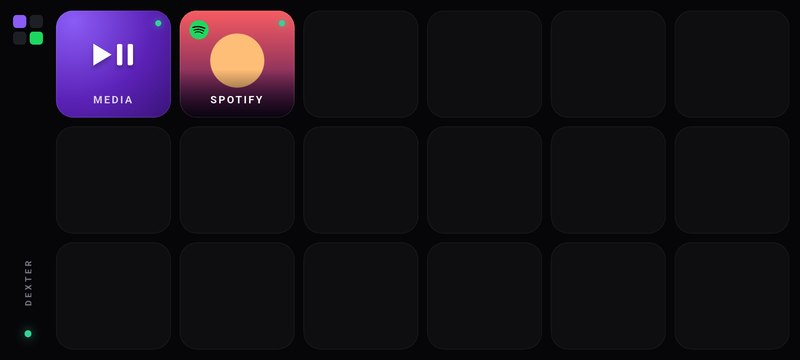
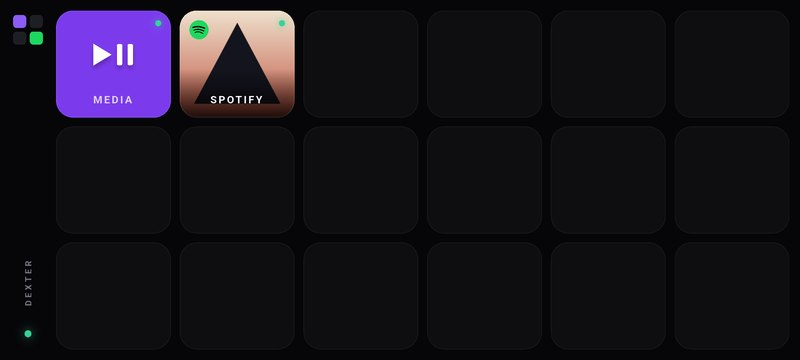
Flat fills instead of dark gradients
Dark gradients (the knob's top-left lighting, the keys' top-to-bottom
shade, the green glow behind Spotify) only have a few shades between
their colours, so screens draw them as visible rings and bands. The
knob is now one flat disc with a hairline edge, keys are flat tiles,
Media/Spotify/Scan/Connect use solid colours, and the Spotify glow is
gone. Only the fade under the album-art label remains, over a photo.

Changed region(s): [[0.0625, 0.0306, 0.375, 0.3361]]

diff --git a/mobile/lib/widgets/volume_knob.dart b/mobile/lib/widgets/volume_knob.dart
@@ -271,7 +271,7 @@ class _RingPainter extends CustomPainter {
   bool shouldRepaint(_RingPainter old) => old.value != value || old.muted != muted || old.color != color;
 }
 
-/// The knob: one smooth dark disc with a small pointer dot that turns with
+/// The knob: one flat dark disc with a small pointer dot that turns with
 /// the value. Nothing else, so it reads as a single clean circle.
 class _KnobPainter extends CustomPainter {
   _KnobPainter({required this.value, required this.muted});
@@ -285,31 +285,15 @@ class _KnobPainter extends CustomPainter {
     final r = size.shortestSide / 2;
     final bodyR = r * 0.7; // held: 0.7 × 1.15, just inside the ring
 
-    canvas.drawCircle(
-      c + Offset(0, r * 0.05),
-      bodyR,
-      Paint()
-        ..color = Colors.black.withValues(alpha: 0.85)
-        ..maskFilter = MaskFilter.blur(BlurStyle.normal, r * 0.07),
-    );
-    canvas.drawCircle(
-      c,
-      bodyR,
-      Paint()
-        ..shader = const RadialGradient(
-          center: Alignment(-0.35, -0.45),
-          radius: 1.15,
-          colors: [Color(0xFF2E2E37), Color(0xFF17171C), Color(0xFF0B0B0E)],
-          stops: [0, 0.55, 1],
-        ).createShader(Rect.fromCircle(center: c, radius: bodyR)),
-    );
+    // One flat disc with a hairline edge. No shading: dark gradients band.
+    canvas.drawCircle(c, bodyR, Paint()..color = Deck.knob);
     canvas.drawCircle(
       c,
       bodyR,
       Paint()
         ..style = PaintingStyle.stroke
         ..strokeWidth = 1
-        ..color = Colors.white.withValues(alpha: 0.07),
+        ..color = Colors.white.withValues(alpha: 0.08),
     );
 
     // Pointer: a small dot near the edge. Amber while muted.

diff --git a/mobile/lib/screens/spotify_screen.dart b/mobile/lib/screens/spotify_screen.dart
@@ -235,7 +235,6 @@ class _SpotifyScreenState extends State<SpotifyScreen> {
       child: Scaffold(
         backgroundColor: Sp.bg,
         body: Stack(children: [
-          const Positioned.fill(child: _Glow()),
           SafeArea(
             child: Row(children: [
               const SideRail(back: true, title: 'SPOTIFY', mark: SpotifyGlyph(size: 26)),
@@ -548,21 +547,6 @@ class _SpotifyScreenState extends State<SpotifyScreen> {
 }
 
 // ── Pieces ────────────────────────────────────────────────────────────────────
-
-/// A faint green light in the corner, so the black has some depth.
-class _Glow extends StatelessWidget {
-  const _Glow();
-  @override
-  Widget build(BuildContext context) => const DecoratedBox(
-        decoration: BoxDecoration(
-          gradient: RadialGradient(
-            center: Alignment(-1.1, -1.2),
-            radius: 1.4,
-            colors: [Color(0x221ED760), Color(0x00000000)],
-          ),
-        ),
-      );
-}
 
 class _Art extends StatelessWidget {
   const _Art({required this.url, required this.size});

diff --git a/mobile/lib/screens/deck_screen.dart b/mobile/lib/screens/deck_screen.dart
@@ -90,14 +90,7 @@ class _DeckScreenState extends State<DeckScreen> with SingleTickerProviderStateM
 
   List<Widget> _keys() => [
         DeckKey(
-          face: const BoxDecoration(
-            gradient: RadialGradient(
-              center: Alignment(-0.7, -0.8),
-              radius: 1.5,
-              colors: [Color(0xFF8B5CF6), Color(0xFF5B21B6), Color(0xFF2A0E5C)],
-              stops: [0, 0.5, 1],
-            ),
-          ),
+          face: const BoxDecoration(color: Deck.violet),
           led: _mediaPlaying ? Deck.ok : null,
           onTap: () => _go(const MediaScreen()),
           child: const KeyFace(icon: _MediaGlyph(), label: 'MEDIA'),
@@ -205,14 +198,7 @@ class _SpotifyKey extends StatelessWidget {
   final SpStatus? status;
   final VoidCallback onTap;
 
-  static const _green = BoxDecoration(
-    gradient: RadialGradient(
-      center: Alignment(-0.7, -0.8),
-      radius: 1.5,
-      colors: [Color(0xFF1ED760), Color(0xFF12803B), Color(0xFF06311A)],
-      stops: [0, 0.5, 1],
-    ),
-  );
+  static const _green = BoxDecoration(color: Color(0xFF1DB954));
 
   @override
   Widget build(BuildContext context) {

diff --git a/mobile/lib/screens/pair_screen.dart b/mobile/lib/screens/pair_screen.dart
@@ -131,14 +131,7 @@ class _PairScreenState extends State<PairScreen> {
         dimension: wide ? 150 : 132,
         child: DeckKey(
           onTap: _busy ? null : _scan,
-          face: const BoxDecoration(
-            gradient: RadialGradient(
-              center: Alignment(-0.7, -0.8),
-              radius: 1.5,
-              colors: [Color(0xFF8B5CF6), Color(0xFF5B21B6), Color(0xFF2A0E5C)],
-              stops: [0, 0.5, 1],
-            ),
-          ),
+          face: const BoxDecoration(color: Deck.violet),
           child: const KeyFace(
             icon: Icon(Icons.qr_code_scanner_rounded, size: 46, color: Deck.text),
             label: 'SCAN QR',
@@ -249,7 +242,7 @@ class _ConnectButton extends StatelessWidget {
         alignment: Alignment.center,
         decoration: BoxDecoration(
           borderRadius: BorderRadius.circular(14),
-          gradient: const LinearGradient(colors: [Deck.accentDeep, Deck.accent]),
+          color: Deck.violet,
           boxShadow: [BoxShadow(color: Deck.accent.withValues(alpha: busy ? 0.1 : 0.3), blurRadius: 24)],
         ),
         child: busy

diff --git a/mobile/lib/theme.dart b/mobile/lib/theme.dart
@@ -4,9 +4,10 @@ import 'package:flutter/material.dart';
 class Deck {
   static const bg = Color(0xFF060608);
   static const body = Color(0xFF0D0D11);
-  // A live key is a dark raised tile; an empty slot is flatter and darker.
-  static const keyTop = Color(0xFF1B1B21);
-  static const keyBottom = Color(0xFF131317);
+  // Flat fills only: dark gradients band into visible steps on screens.
+  static const key = Color(0xFF17171C);
+  static const knob = Color(0xFF1C1C22);
+  static const violet = Color(0xFF7C3AED);
   static const slot = Color(0xFF0E0E11);
   static const lcd = Color(0xFF040405);
   static const text = Color(0xFFECECF1);

diff --git a/mobile/lib/widgets/deck_key.dart b/mobile/lib/widgets/deck_key.dart
@@ -32,13 +32,7 @@ class _DeckKeyState extends State<DeckKey> {
     setState(() => _down = down);
   }
 
-  static const _tile = BoxDecoration(
-    gradient: LinearGradient(
-      begin: Alignment.topCenter,
-      end: Alignment.bottomCenter,
-      colors: [Deck.keyTop, Deck.keyBottom],
-    ),
-  );
+  static const _tile = BoxDecoration(color: Deck.key);
   static const _slot = BoxDecoration(color: Deck.slot);
 
   @override
